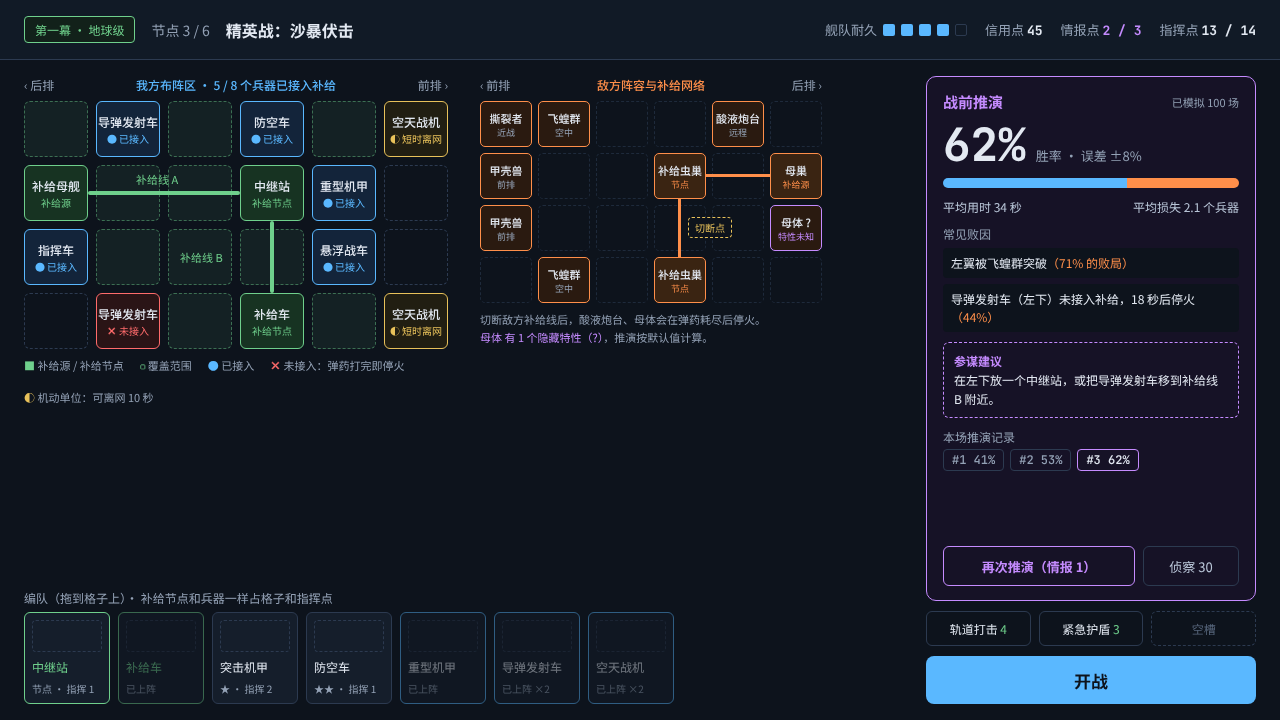
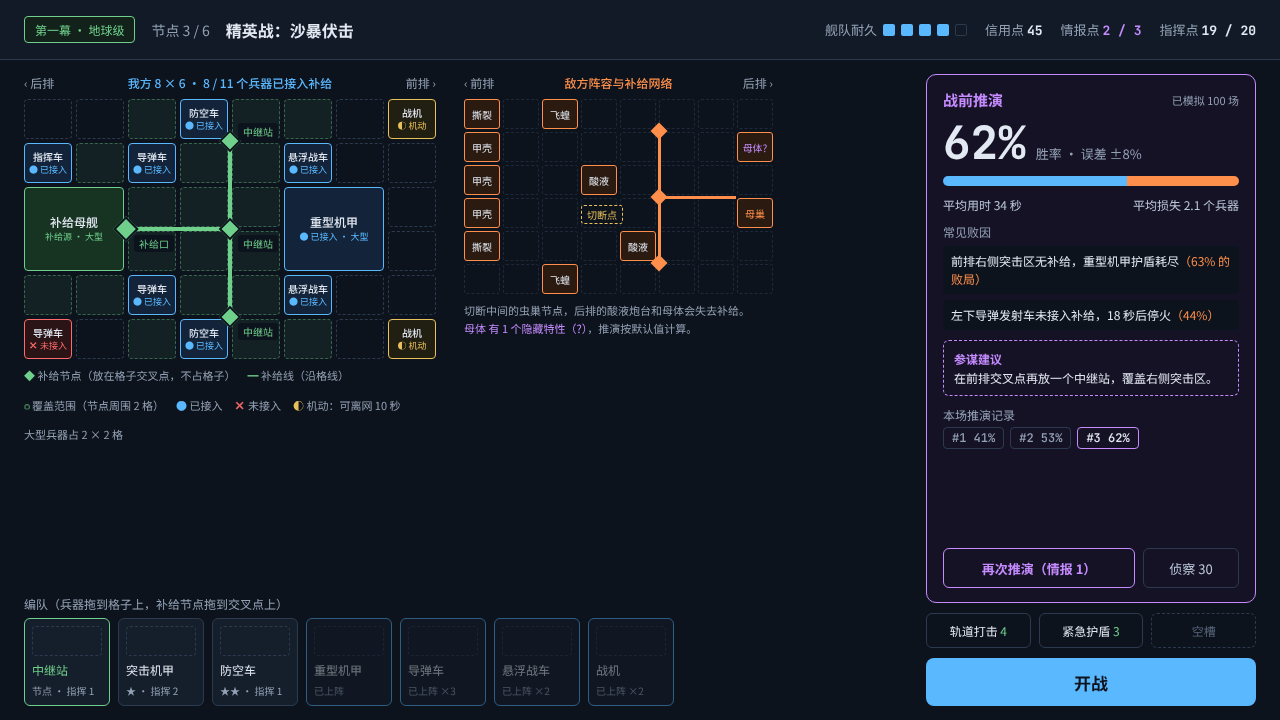
Refine formation grid to 8x6 with supply nodes on intersections
Claude-Session: https://claude.ai/code/session_01PsMEfYBNb8V2Yeq91JyHa6

diff --git a/docs/game-design.md b/docs/game-design.md
@@ -276,7 +276,8 @@
 
 #### 5.1.1 布阵棋盘
 
-- 己方半场为 **6 列 × 4 排** 的格子，每格放 1 个兵器（大型兵器占 2 格）。
+- 己方半场为 **8 列 × 6 排** 的格子（v0.9 起，原为 6 × 4），小型和中型兵器占 1 格，**大型兵器占 2 × 2 格**。
+- 补给节点放在**格子的交叉点**上，不占格子（见 16.3）。
 - 可上阵数量受**指挥点上限**限制（见 7.2）。
 - 站位的意义：
 
@@ -998,10 +999,12 @@ XFramework/
 
 **规则**
 
-- 每场战斗的己方阵地后方有一个固定的**补给源**（补给母舰）。
-- 布阵时可以放置**补给节点**：中继站（只负责连接和覆盖）、补给车 / 补给舰（覆盖更大、可随舰队移动）。补给节点占用格子和指挥点。
-- 补给源和补给节点之间，距离在连接范围内（例如 3 格）时**自动连成补给线**。
-- 每个补给源和补给节点**覆盖周围 1 格**。处于覆盖范围、且所属节点连回补给源的兵器，算作**接入补给网络**。
+- 布阵区为 **8 × 6 的格子**。兵器占格子；**补给网络在另一层：补给节点放在格子的交叉点上，补给线沿着格线走，不占用兵器的格子。**
+- 每场战斗己方阵地后方有一个固定的**补给源**（补给母舰，大型单位，占 2 × 2 格），它边上的一个交叉点是补给口。
+- 布阵时可以在交叉点上放置**中继站**，每个消耗 1 指挥点。
+- 两个节点在同一条格线上、相距不超过 **3 格**时，自动连成补给线。
+- 每个节点**覆盖周围 2 格**，也就是以交叉点为中心的 4 × 4 格区域。
+- 兵器有任意一格处于覆盖范围内，并且这个范围所属的节点能沿补给线连回补给源，就算**接入补给网络**。
 - 战斗中补给线可以被切断：节点被击毁，或者补给线被敌方单位“压线”一段时间（例如 3 秒）。
 
 **接入与未接入的区别**
